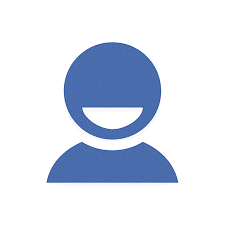
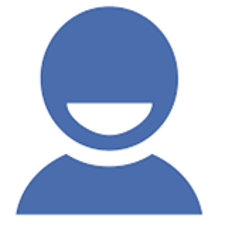
minor style changes

diff --git a/index.html b/index.html
@@ -11,33 +11,32 @@
       <nav>
        <p> IoT Based Smart Authentication System</p>
       </nav>
+
     </header>
     <section>
+
       <article>
         <div id="authMain" class="authMain">
+
           <div id="authSub1" class="authSub1 signInBox">
-            <h3>Sign in</h3>
+            <h2>Sign in</h2>
             <hr class="hr1">
             <label for="email">Email:</label>
             <input id="email" type="email" required autofocus><br>
-            <button id="s1">Submit</button>
-            
-          
-        </div>
-        <div id="authSub2" class="authSub2 signInBox">
-          <div  id="pImg" class="pImg"></div>
+            <a href="#">Forgot Email?</a><br>
+            <button id="s1"><div>Submit</div></button>
+          </div>
+
+          <div id="authSub2" class="authSub2 signInBox">
             <button id="back" class="back">&#8678;Back</button>
-            <h3>Sign in</h3>
+            <div  id="pImg" class="pImg"><img width="170px" height="170px" src="resorces/Imgs/index-page/profilePic.png" alt="Profile Picture"></div>
+            <h2>Sign in</h2>
             <hr class="hr2">
             <label for="pass">Password:</label>
             <input id="pass" type="password"><br>
             <button id="s2">Submit</button>
-          
-          </fieldset>
           </div>
-        <div>
 
-        </div>
         </div>
       </article>
     </section>

diff --git a/scripts/indexScript.js b/scripts/indexScript.js
@@ -2,19 +2,22 @@ window.onload =init();
 function init(){
 
     document.querySelector("#s1").addEventListener("click", function(evt){
-
+       
        let authSub1 = document.querySelector("#authSub1");
-       authSub1.style="left:-950px;opacity:0;";
+       authSub1.style="left:-700px;opacity:0;";
        let authSub2 = document.querySelector("#authSub2");
        authSub2.style="left:30%;opacity:1;";
-       setInterval(function(){ document.querySelector("#pass").focus();},1000);
+       setTimeout(function(){ document.querySelector("#pass").focus();},1000);
        
        //HR width
-       document.querySelector(".hr1").style="width:100%;";
+       let hr = document.querySelector(".hr1");
+       hr.style="width:100%;";
+       setTimeout(function(){hr.style="width:60%;"},1000);
     });
     
     document.querySelector("#back").addEventListener("click",function(){
         authSub1.style="left:30%;opacity:1;";
-        authSub2.style="left:950px;opacity:0;";
-    })
+        authSub2.style="left:948px;opacity:0;";
+        document.querySelector("#email").focus();
+    });
 }

diff --git a/styles/indexStyle.css b/styles/indexStyle.css
@@ -32,9 +32,10 @@ section{
 }
 .hr1,.hr2{
     margin-bottom: 40px;
-    border-bottom-color: #6200ea;
     width:60%;
     transition: all 0.6s;
+    border:2px solid #6200ea;
+    border-radius: 25%;
 }
 .authMain:hover .hr1 {
     width: 70%;
@@ -46,7 +47,7 @@ section{
 
 .authSub1{
     left: 30%;
-    transition: left 10s, opacity 1s,border 0.6s;
+    transition: left 3s, opacity 1s,border 0.6s;
     opacity: 1;
 }
 .signInBox{
@@ -73,11 +74,27 @@ section{
     position: absolute;
     left: 0;
 }
-.signInBox .pImg{
-    border-radius: 50%;
+.authSub2 h2{
+    margin-top: 0;
+}
+label{
+    font-size: 1.3em;
+}
+input{
+    height: 30px;
     width: 200px;
-    height: 200px;
-    background:url("..\resorces\Imgs\index-page\profilePic.png");
-    overflow: hidden;
+    font-size: 1.3em;
+}
+.signInBox a{
+    font-size: 0.8em;
+    color: rgb(0, 110, 255);
+    float: right;
+    margin:2% 22% 0 0;
+}
+button{
+    background-color: white;
+    border: 1px solid black;
+    width: 80px;
+    height: 30px;   
 }
 }
